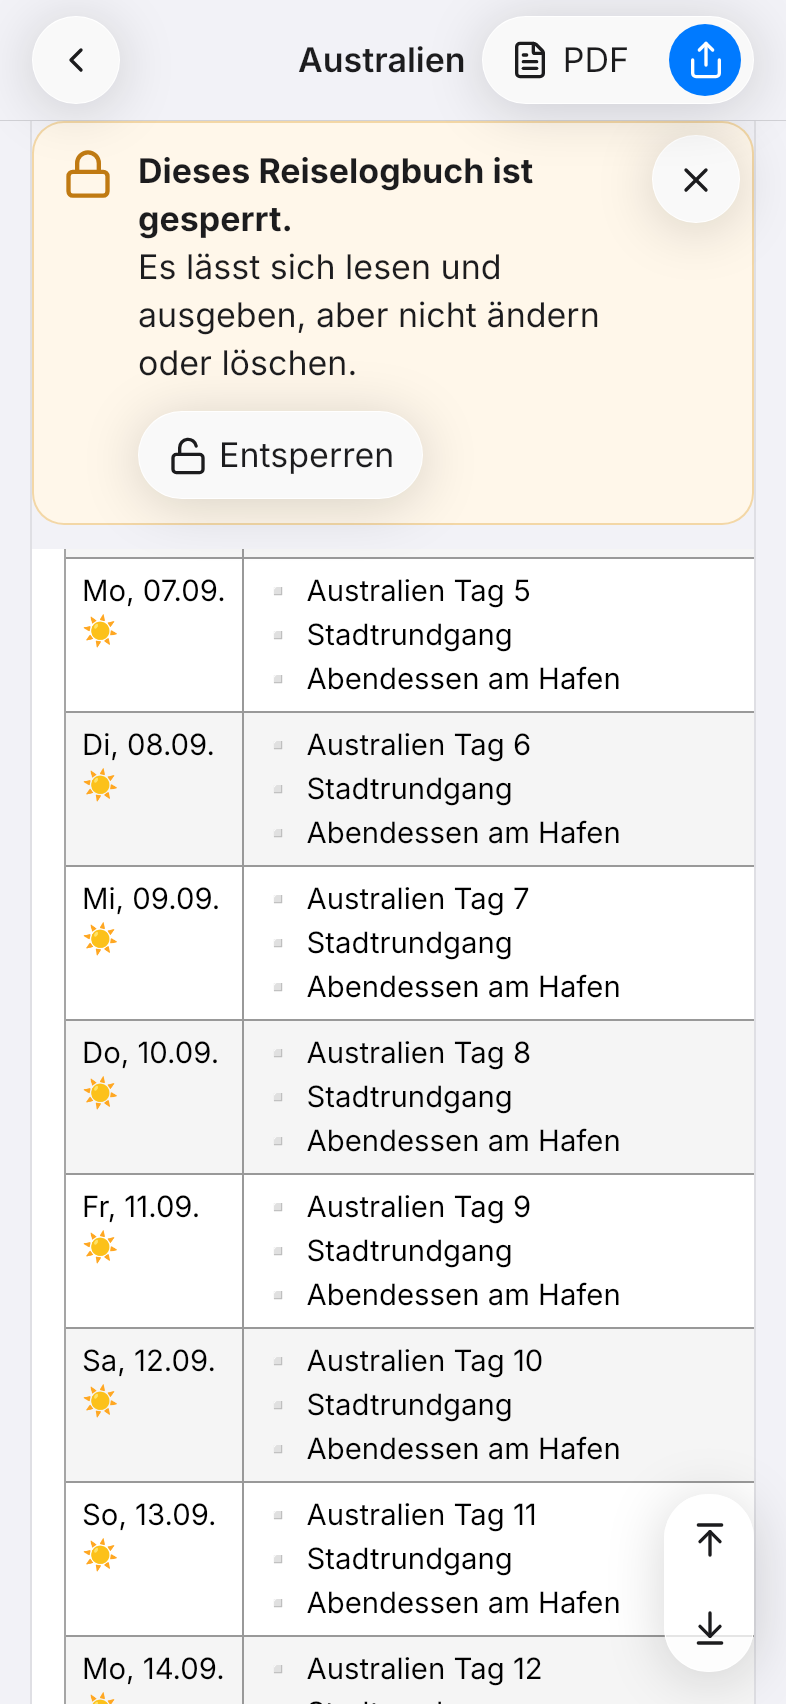
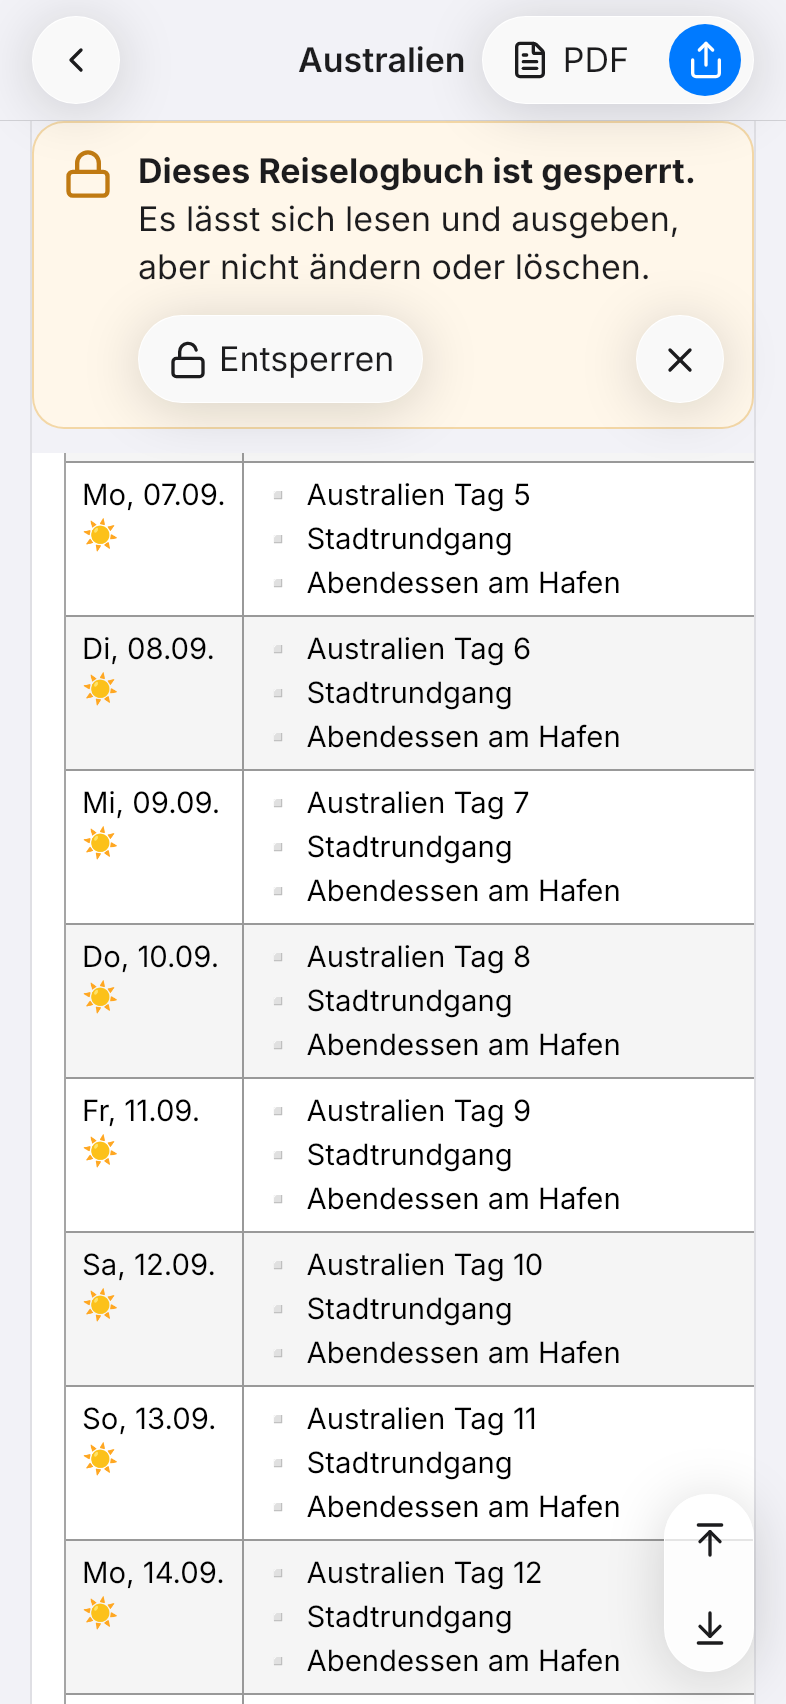
Übergabe an Reiselogbuch 0155 (P-120 Korrekturen entschieden, teils umgesetzt)
Claude-Session: https://claude.ai/code/session_01HyGMKTem4viL9EMTHDzD1k

diff --git a/arbeit/P-120/index.html b/arbeit/P-120/index.html
@@ -131,8 +131,8 @@
   /* seit 3.58.1 (P-120/F-4, Muster AppDesign arbeit/P-120): der Hinweis steht beim Rollen unter der Kopfzeile fest (.lockbar, Seitenfarbe darunter,
      die Vorschau läuft darunter durch); x ‚Hinweis ausblenden‘ oben rechts wie beim Tipp in den Apple-Apps (HIG ‚Offering help‘) */
   #app .lockbar { position: sticky; top: 0; z-index: 3; background: var(--bg); padding-bottom: 12px; }
-  #app .lockinfo { position: relative; display: flex; align-items: center; gap: 12px; background: #fff7ea; border: 1px solid #f3d7a6; border-radius: 16px; padding: 12px 52px 12px 14px; margin: 0; }
-  #app .lockinfo .li-x { position: absolute; top: 6px; right: 6px; }
+  #app .lockinfo { position: relative; display: flex; align-items: center; gap: 12px; background: #fff7ea; border: 1px solid #f3d7a6; border-radius: 16px; padding: 12px 14px; margin: 0; }
+  #app .lockinfo .li-x { align-self: center; }   /* P-120/F-4 (Nutzer 22.11.2026): x auf derselben Mitte wie ‚Entsperren‘ */
   .nb-title .lk, .pnav-title .lk { display: inline-block; width: .76em; height: .76em; vertical-align: -.05em; margin-right: .3em; }
   .nb-title .lk svg, .pnav-title .lk svg { display: block; width: 100%; height: 100%; stroke-width: 2.4; }
   :root[data-theme="dark"] #app .lockinfo { background: #2b2112; border-color: #5e4519; }
@@ -148,6 +148,7 @@
   html.phone #app .lockinfo { flex-wrap: wrap; align-items: flex-start; }
   html.phone #app .lockinfo .li-t { flex: 1 1 calc(100% - 38px); }
   html.phone #app .lockinfo button { margin-left: 38px; }
+  html.phone #app .lockinfo .li-x { margin-left: auto; }
   html.phone #app .lockpage .rt { min-width: 960px; }
 </style>
 </head>

diff --git a/UEBERGABE.md b/UEBERGABE.md
@@ -1,54 +1,47 @@
 # Übergabe an die nächste Sitzung
 
-**Stand 22.11.2026** · geschrieben in der Sitzung ‚Reiselogbuch 0153‘ bei Kontext rund 278.000 (Übergabe auf Wunsch des Nutzers, Thema RLB-125 abgeschlossen,
-P-120 ausgewertet). Aufbau nach Zusammenarbeit allgemein 2.5. **Claude liest diese Datei zu Beginn jeder Sitzung zuerst, dann die ganze Zusammenarbeit**
-(0 Nr. 15); die Arbeitsumgebung steht in der AppDesign-`CLAUDE.md`.
+**Stand 22.11.2026** · geschrieben in der Sitzung ‚Reiselogbuch 0154‘ bei Kontext rund 290.000 (Übergabe fällig, 0 Nr. 13). Aufbau nach Zusammenarbeit allgemein 2.5.
+**Claude liest diese Datei zu Beginn jeder Sitzung zuerst, dann die ganze Zusammenarbeit** (0 Nr. 15); die Arbeitsumgebung steht in der AppDesign-`CLAUDE.md`.
 
 ## 1. Lagebild
 
 | Teil | Version |
 |---|---|
-| Reiselogbuch | **3.58.0** veröffentlicht (`main` ea502c7, danach nur Backlog db718f3) |
-| AppDesign | **4.68.0** veröffentlicht (`main` bc4ac5e, danach nur Bericht, Backlog, Arbeitsdateien) |
+| Reiselogbuch | **3.58.0** veröffentlicht (`main` db718f3); Arbeitszweig `claude/vigilant-babbage-sa79op` (fe57fa7) mit P-120-Korrekturen, **nicht gebaut** |
+| AppDesign | **4.68.0** veröffentlicht (`main`, danach nur Arbeitsdateien und Übergabe) |
 | ReiseLogBuch-Import (privat) | **1.4.0** (`main` 2ec7d03), unverändert |
 | Zusammenarbeit allgemein | **3.19.0** |
 | `CLAUDE.md` | AppDesign **2.14.0** · Reiselogbuch 3.10.0 · Import 1.2.0 |
 
-- **Chatnummer:** Die nächste Sitzung heißt **Reiselogbuch 0154**, die danach 0155.
-- **Modell und Aufwand:** 0153 lief mit **Opus 5.5**, Aufwand **hoch** (get_session; Modell-Aufrufe `high`, `CLAUDE_CODE_EFFORT_LEVEL` ungesetzt); kein
+- **Chatnummer:** Die nächste Sitzung heißt **Reiselogbuch 0155**, die danach 0156.
+- **Modell und Aufwand:** 0154 lief mit **Opus 5.5**, Aufwand **hoch** (get_session; Modell-Aufrufe `high`, `CLAUDE_CODE_EFFORT_LEVEL` ungesetzt); kein
   `model_fallback`. Festlegung (0122): Fable 5.2 vorerst nicht; Hilfsagenten nur mit Opus 5.5 und Aufwand hoch, einzeln nacheinander (auch web-fetch).
 - **Nutzungsgrenze:** Sieben-Tage-Grenze **‚allowed_warning‘** (zurückgesetzt 26.11.2026, 8:00) – sparsam prüfen.
 - **Hooks:** `~/.claude/settings.json` leer (`{}`).
-- **Usertests:** **P-120 nicht ok** (Nutzer 22.11.2026) – P-120/F-1 bis F-4, sonst ok.
-- **Erinnerung:** ‚Backlog-Erinnerung (AppDesign und Reiselogbuch)‘ montags 8:58.
-- **Umgebung:** `support.apple.com` nicht erreichbar; Apple-HIG über die JSON-Fassung (`https://developer.apple.com/tutorials/data/design/human-interface-guidelines/<seite>.json`).
-  `g811141a.github.io` mit `curl` nicht erreichbar. Muster über `file://` laden.
-- **Prüfumgebung:** 4 Kerne; Chromium `chromium-1243` (Verweise 1194 → 1243 wie in der `CLAUDE.md`), WebKit `webkit-2215`; voller Lauf 81:24.
+- **Usertests:** **P-120 nicht ok** – Korrekturen F-1 bis F-4 entschieden, teils umgesetzt (unten).
+- **Umgebung:** HIG über JSON (`https://developer.apple.com/tutorials/data/design/human-interface-guidelines/<seite>.json`) erreichbar; `support.apple.com` nicht.
+- **Prüfumgebung:** 4 Kerne; Chromium 1243 (Verweise 1194 → 1243), WebKit 2215.
 
-## 2. Ergebnisse der Sitzung 0153
+## 2. Ergebnisse der Sitzung 0154
 
-- **Reiselogbuch 3.58.0 / AppDesign 4.68.0 veröffentlicht** (RLB-125 Reiselogbuch sperren) – alle 178 Läufe grün, beide Pages ‚success‘. Bericht
-  `arbeit/0153 Bericht 3.58.0.md`.
-- **Kontextmenü iPhone quer** (`arbeit/0153 RLB-125 Kontextmenue iPhone quer.md`): es fehlten 10 px; Wortlaut R-4.2 und 15.4 freigegeben – ohne Platz darunter und
-  darüber, bei einer Kachel mindestens doppelt so breit wie das Menü, steht es rechtsbündig auf der Kachel; `placeAt`, `checkContextMenus`, Testfall P-120/9.
-- **Fehler behoben (voller Lauf):** Kontextmenü bei Text 53 stand über dem oberen Rand – im Rückfall nie über Rand und Backup-Kachel, Inhalt rollt (R-4.5).
-- **APD-146** (Icon-Zeile ‚Sperren / Entsperren | `lock` / `lock-open`‘, Designrichtlinie 5): Wortlaut freigegeben, in ‚0. Nächste Version‘ von AppDesign.
-- **P-120 ausgewertet** (`arbeit/0153 P-120 Auswertung.md`, Backlog des Reiselogbuchs ‚0. Nächste Version‘):
-  - **F-1** Textauswahl/Lupe in der Backup-Kachel – Wunsch: allgemeine Regel ‚Text nur in Eingabefeldern auswählbar‘; es gibt **keine** solche Regel (nur
-    Designrichtlinie 13 und R-3.6), `.bhint` ohne `user-select: none`.
-  - **F-2** Sperren einer Kachel weiter oben springt ans Ende der Liste – Wunsch: gesperrtes/entsperrtes Reiselogbuch wird aktiv und angezeigt.
-  - **F-3** ‚Ausgabe V…‘ zählt nach abgebrochenem Sichern hoch – `nextOutput` zählt vor dem Teilen; offen: PDF (Drucken) meldet kein Ergebnis.
-  - **F-4** Hinweis ‚gesperrt‘ rollt weg, Kopfzeile bleibt – Vorschlag des Nutzers: Hinweis ausblendbar, beim nächsten Öffnen wieder da.
-- **Wackler** (allein grün, Ursache offen): `ablauf-iphone` (Text 53, Chromium), `ablauf-markierung-menues` (WebKit, Menü 338,3 statt 340 px), einmal
-  `kontextmenue-regeln` (WebKit, erster Fall).
+- **Feste Prüfung `ReiseLogBuch/tests/ablauf-p120.mjs`** (Teile F-1 bis F-4, `PRUEF_TEIL`): gegen 3.58.0 rot in Chromium und WebKit (je 39 Fehler). Noch
+  **nicht in `tests/alle.mjs`** und nicht in `tests/README.md` eingetragen.
+- **Umgesetzt im Arbeitszweig (grün in Chromium und WebKit):** F-2 Sperren/Entsperren aus der Liste (`setLockFromList`), F-3 HTML zählt erst nach Übergabe
+  (`nextOutput`/`countOutput`), F-4 Hinweis fest unter der Kopfzeile mit x ‚Hinweis ausblenden‘ (zentriert), Schloss vor dem Titel, beim nächsten Öffnen wieder da
+  (`lockHintHidden`). `ablauf-sperre` grün (Chromium).
+- **Entscheidungen** (alle im Fenster, 22.11.2026): `arbeit/0154 P-120 Korrekturen.md`, Abschnitt ‚Entscheidungen‘ – F-1 Wortlaut R-1.15 freigegeben (mit
+  Vorschau als Ausnahme), F-2 Einstellen/Löschen mitbeheben, F-3 PDF zählt bei `beforeprint`, F-4 Muster mit zentriertem x.
+- **Muster** `arbeit/P-120/index.html` (Pages) mit Bildern.
 
 ## 3. Nächster Schritt
 
-1. Lesen wie immer, Tests einrichten, Lagebild als eigene Antwort mit Kachel (0 Nr. 15).
-2. **P-120/F-1 bis F-4 als Korrekturversion** (0 Nr. 1, 8, 22): je Punkt zuerst den Ablauf des Nutzers als feste Prüfung nachbauen – rot gegen 3.58.0.
-3. F-1: Apple-Abgleich mit Quelle, Wortlaut der neuen allgemeinen Regel (0 Nr. 29, Katalog 17 mit Prüfung). F-4: Apple-Abgleich, Muster (iPhone hoch, iPad
-   quer), Testfall-Liste. F-3: Rückfrage zu PDF. F-2: beheben.
-4. Bau-Frage: Reiselogbuch 3.58.1 mit AppDesign 4.68.1 (F-1 und APD-146), Prüflauf voll.
+1. Lesen wie immer, Tests einrichten, Lagebild als eigene Antwort mit Kachel (0 Nr. 15). Arbeitszweige `claude/vigilant-babbage-sa79op` holen
+   (ReiseLogBuch fe57fa7) und `arbeit/0154 P-120 Korrekturen.md` lesen.
+2. Offenes umsetzen: **F-1** Katalog R-1.15, R-3.6, Designrichtlinie 13 (Wortlaut in der Datei, freigegeben), `v4/design.css`
+   (`html, dialog { user-select: none; -webkit-touch-callout: none }`, Felder und `.rt` `text`), `hig.mjs`-Prüfung, Meldungen Z-6/H-2/H-6 → R-1.15 ·
+   **F-2** Einstellen (aktiv und angezeigt) und Löschen (Liste bleibt) – zuerst als Teil in `ablauf-p120` rot · **F-3** PDF `beforeprint` · `ablauf-p120` in
+   `alle.mjs` und `tests/README.md`.
+3. Bau-Frage: **Reiselogbuch 3.58.1 mit AppDesign 4.68.1** (P-120/F-1 bis F-4 und APD-146), Prüflauf voll; CHANGELOG mit Testfällen (Usertest P-121).
 
 ## 4. Danach
 
@@ -56,6 +49,8 @@ APD-135/B-3.3 Schritt 2 · APD-145 (AppDesign 5.0.0, `v5/`) · APD-142 schrittwe
 APD-57 · APD-62 · APD-44 bis APD-60 · zuletzt APD-80. Später: sobald ein iOS-Update `print()` vom Home-Bildschirm wieder zulässt, den PDF-Hinweis (RLB-124) entfernen.
 
 ## 5. Neue Vereinbarungen
+
+- R-1.15 ‚Text nur in Eingabefeldern auswählbar‘ (Wortlaut freigegeben 22.11.2026) – kommt mit AppDesign 4.68.1.
 
 - R-4.2 und 15.4 (Kontextmenü am iPhone quer rechtsbündig auf der Kachel) – gültig mit 4.68.0.
 - APD-146 Icon-Zeile Sperren/Entsperren – freigegeben, kommt mit der nächsten AppDesign-Version.
@@ -65,7 +60,7 @@ APD-57 · APD-62 · APD-44 bis APD-60 · zuletzt APD-80. Später: sobald ein iOS
 In der neuen Sitzung müssen **AppDesign**, **ReiseLogBuch** und **ReiseLogBuch-Import** verfügbar sein.
 
 ```
-Reiselogbuch 0154 – P-120 Korrekturen (F-1 bis F-4)
+Reiselogbuch 0155 – P-120 Korrekturen fertig und bauen
 
-Lies im Repo g811141a/AppDesign (Branch main) zuerst UEBERGABE.md, dann die GANZE Zusammenarbeit allgemein (3.19.0) und die Überschriften der Designrichtlinien. Prüfe Modell und Aufwand (get_session: eingestellt, dazu rate_limit_info; Sitzungsdatei: tatsächlich, auch model_fallback; Umgebungsvariable CLAUDE_CODE_EFFORT_LEVEL), hole die Repos g811141a/ReiseLogBuch und g811141a/ReiseLogBuch-Import dazu, wie in der AppDesign-CLAUDE.md unter ‚Arbeitsumgebung‘, richte die Tests ein und prüfe, ob in ~/.claude/settings.json Hooks stehen. Lagebild als eigene Antwort (im Chat und als Markdown-Datei) mit Kachel; danach nach UEBERGABE.md Abschnitt 3: arbeit/0153 P-120 Auswertung.md lesen, P-120/F-1 bis F-4 je als feste Prüfung nachbauen (rot gegen 3.58.0), F-1 Wortlaut der neuen Regel und F-4 Muster zur Freigabe, dann Bau-Frage für die Korrekturversion. Hilfsagenten nur mit Opus 5.5 und Aufwand hoch, einzeln nacheinander, auch web-fetch; Fable 5.2 vorerst nicht verwenden.
+Lies im Repo g811141a/AppDesign (Branch main) zuerst UEBERGABE.md, dann die GANZE Zusammenarbeit allgemein (3.19.0) und die Überschriften der Designrichtlinien. Prüfe Modell und Aufwand (get_session: eingestellt, dazu rate_limit_info; Sitzungsdatei: tatsächlich, auch model_fallback; Umgebungsvariable CLAUDE_CODE_EFFORT_LEVEL), hole die Repos g811141a/ReiseLogBuch und g811141a/ReiseLogBuch-Import dazu, wie in der AppDesign-CLAUDE.md unter ‚Arbeitsumgebung‘, richte die Tests ein und prüfe, ob in ~/.claude/settings.json Hooks stehen. Lagebild als eigene Antwort (im Chat und als Markdown-Datei) mit Kachel; danach nach UEBERGABE.md Abschnitt 3: die Arbeitszweige claude/vigilant-babbage-sa79op holen, arbeit/0154 P-120 Korrekturen.md lesen, das Offene umsetzen (F-1 Regel und CSS, F-2 Einstellen/Löschen, F-3 PDF), dann Bau-Frage Reiselogbuch 3.58.1 mit AppDesign 4.68.1 (voll). Hilfsagenten nur mit Opus 5.5 und Aufwand hoch, einzeln nacheinander, auch web-fetch; Fable 5.2 vorerst nicht verwenden.
 ```

diff --git a/arbeit/0154 P-120 Korrekturen.md b/arbeit/0154 P-120 Korrekturen.md
@@ -101,3 +101,15 @@ Bildschirms?). Für den Usertest: Rollen und x am Gerät.
 ## Bau danach
 
 Reiselogbuch 3.58.1 mit AppDesign 4.68.1 (F-1 und APD-146), Prüflauf voll – Bau-Frage nach deinen Antworten.
+
+## Entscheidungen (Nutzer 22.11.2026, Sitzung 0154, im Fenster)
+
+- **F-1:** Wortlaut R-1.15 (mit Vorschau als Ausnahme), R-3.6 und Designrichtlinie 13 wie oben **freigegeben** – noch einzutragen (Katalog, R-3.6, 13), dazu
+  `design.css` (zwei Zeilen), `hig.mjs` (jeder sichtbare Text, R-1.15; Schaltflächen-Prüfung R-3.6 geht darin auf), `katalog.mjs` Z-6 und `ablauf.mjs`
+  APD-106/H-2, H-6 → R-1.15.
+- **F-2:** dieselbe Lücke mitbeheben – ‚Reiselogbuch einstellen‘ aus der Liste: das Reiselogbuch wird das aktive und angezeigt; ‚Reiselogbuch löschen‘: die
+  Liste bleibt stehen (das aktive bleibt). Noch umzusetzen, mit Teil F-2 in `ablauf-p120` (rot gegen 3.58.0 zuerst).
+- **F-3:** a) PDF zählt erst, wenn das Drucken-Menü wirklich aufgeht (`beforeprint`) – noch umzusetzen (heute in `exportPdf` noch `countOutput` beim Antippen);
+  Testfall (User): am Gerät vom Home-Bildschirm PDF antippen → Nummer bleibt.
+- **F-4:** Muster übernommen, **mit Änderung:** x horizontal zentriert auf derselben Linie wie ‚Entsperren‘ (vorher höher gestellt) – umgesetzt in App und Muster
+  (`.li-x { align-self: center }`, iPhone rechts in der Zeile von ‚Entsperren‘), `ablauf-p120` F-4 grün in Chromium und WebKit, Bilder neu.
